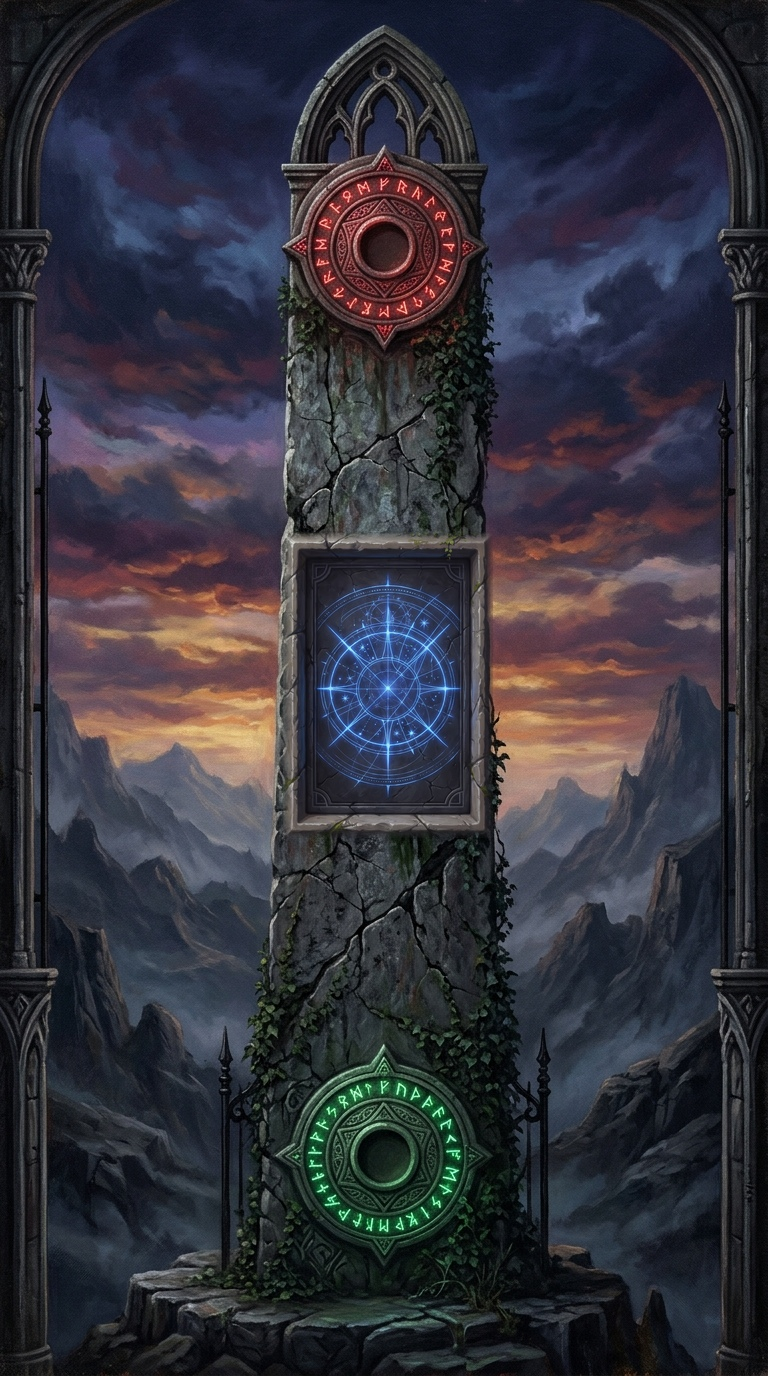
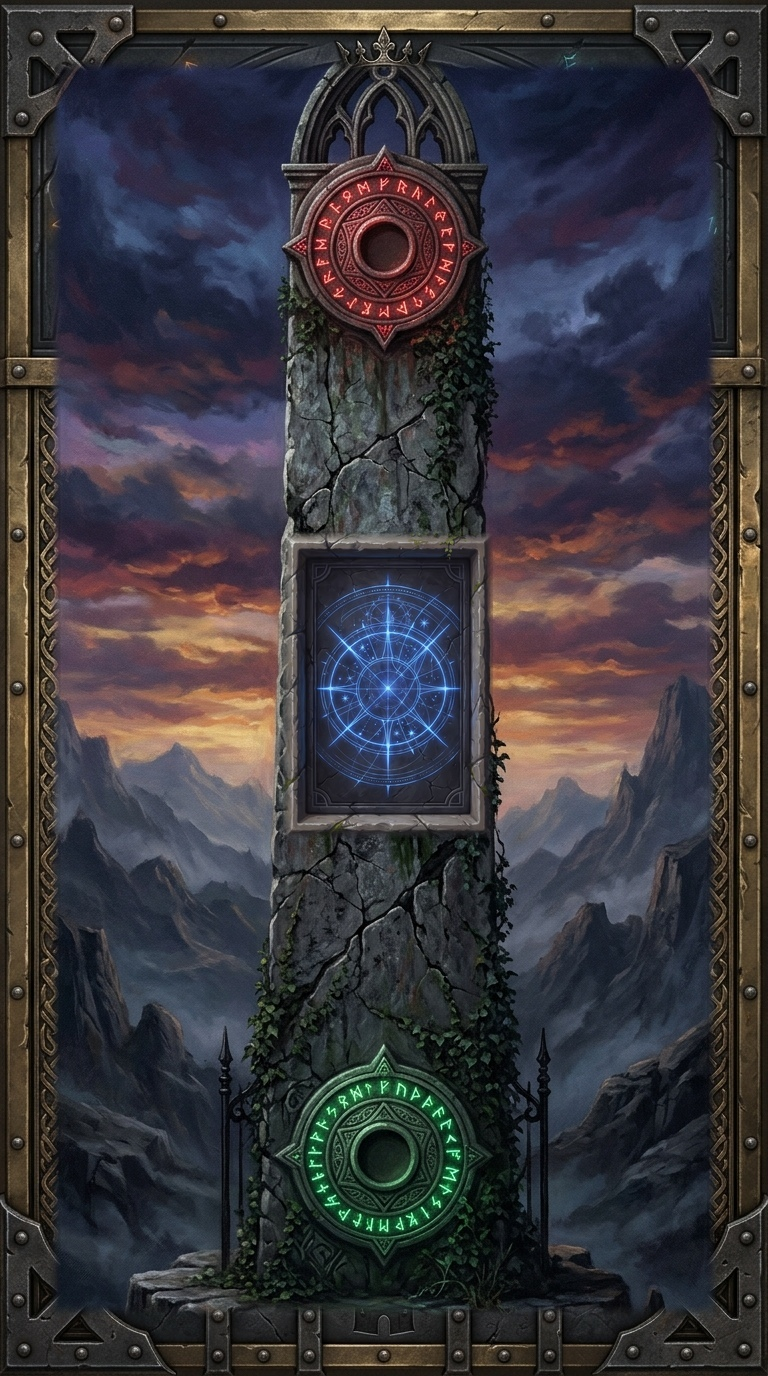
feat: embed gothic riveted iron and bronze outer frame onto right wing altar and add edge divider

Changed region(s): [[0.0, 0.0, 1.0, 1.0]]

diff --git a/UnityGame/Assets/Scripts/UI/GameBootstrapper.cs b/UnityGame/Assets/Scripts/UI/GameBootstrapper.cs
@@ -491,6 +491,9 @@ namespace MonsterCardGame.UI
             {
                 rwImg.color = Color.clear;
             }
+            var rightEdgeDiv = CreatePanel(rightWing.transform, "RightWingEdgeDivider", new Color(0.24f, 0.28f, 0.36f, 0.95f),
+                new Vector2(0f, 0.5f), new Vector2(0f, 0.5f), new Vector2(1, 0), new Vector2(2, 1080));
+            rightEdgeDiv.GetComponent<Image>().raycastTarget = false;
 
             // Top Utility Row (Pristine clean for AI Altar)
             var turnBadgePanel = CreatePanel(rightWing.transform, "TopTurnBar", Color.clear,
